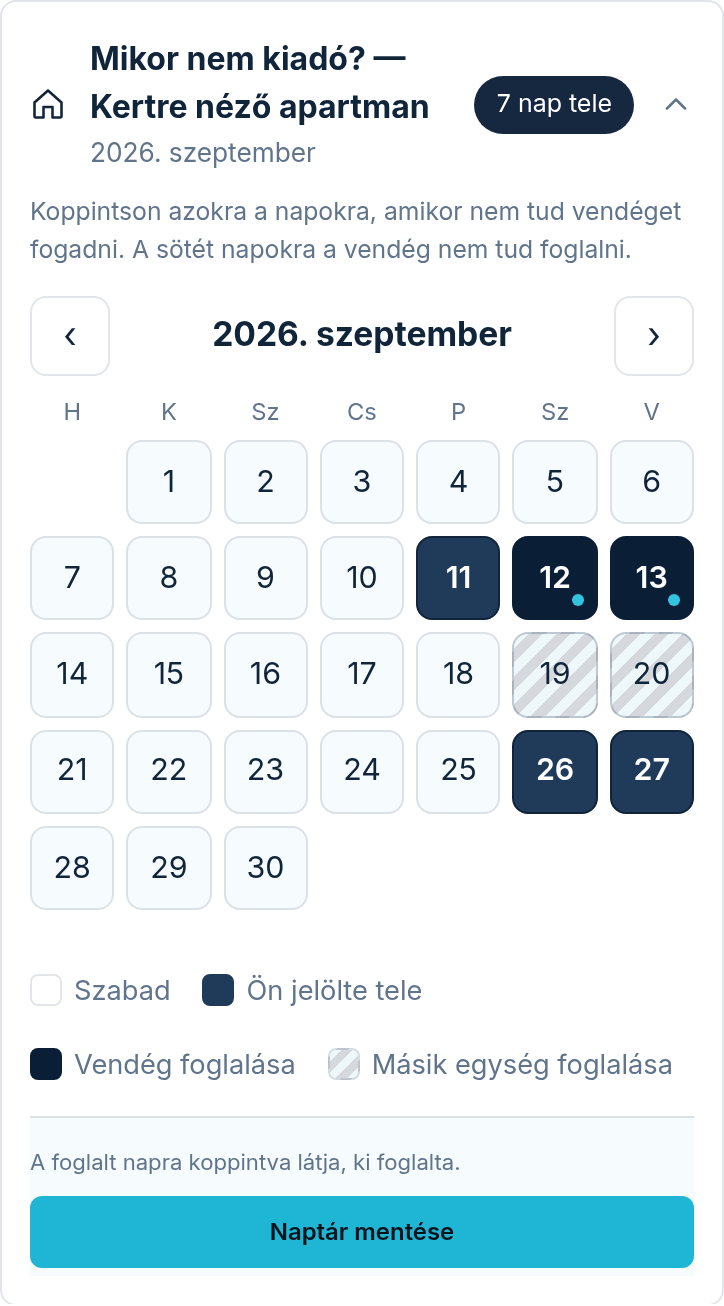
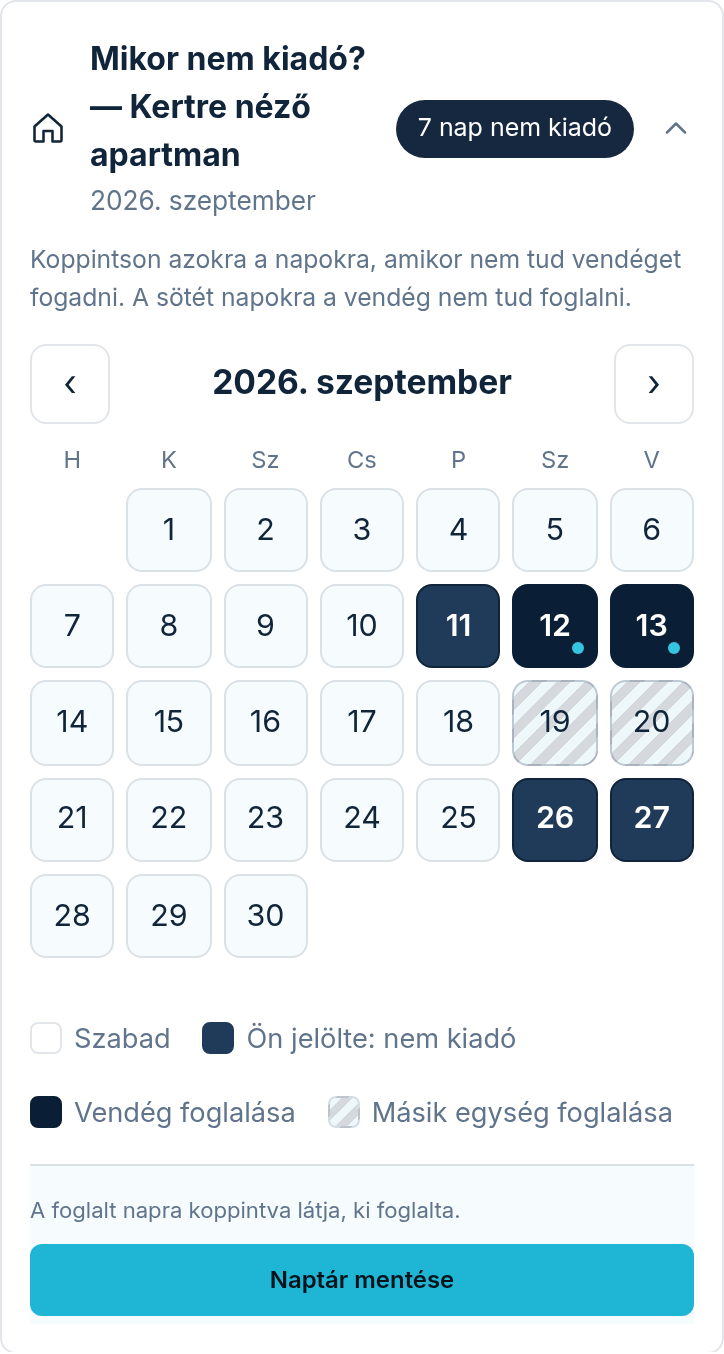
fix(foglalás): a naptár jelvénye, jelmagyarázata és nap-kártyája a cím szavára — „minden nap kiadó” / „N nap nem kiadó” / „Ön jelölte: nem kiadó” (tulaj: B, 2026-09-25)
A cím már „Mikor nem kiadó?” volt, a „tele” szó három helyen maradt — a tulaj fejben
fordított. Három szókészlet képpel (A „zárt” / B „nem kiadó” / C „tele”) → B: a jelvény,
a jelmagyarázat és a másik egység által tartott nap kártyája ugyanazt a szót viseli, mint
a cím. Fogyasztók átvezetve: KB-szöveg + kép, booking-screen-check, a booking-screen
kontraktus README-je (kötő idézet + dátumozott megjegyzés), katalógus.

Claude-Session: https://claude.ai/code/session_01VvQ8HjmVgBx8DC5YuzHngU

diff --git a/src/server/moduleConfigViews.ts b/src/server/moduleConfigViews.ts
@@ -948,7 +948,7 @@ function dayDetailCard(c: MonthView["cells"][number], moduleId: string, unitId: 
       `<strong>${esc(dayLabel(c.day, lang))}</strong>` +
       (holder ? `<span class="daycard__tag">${esc(holder)}</span>` : "");
     body =
-      `<p class="daycard__note">${T(lang, "Ezt a napot {art} {unit} naptárában jelölte tele, ezért itt sem adható ki.", { art: huArticleLower(holder), unit: esc(holder) })}</p>` +
+      `<p class="daycard__note">${T(lang, "Ezt a napot {art} {unit} naptárában jelölte nem kiadónak, ezért itt sem adható ki.", { art: huArticleLower(holder), unit: esc(holder) })}</p>` +
       (d.otherUnitId
         ? `<div class="daycard__acts"><a class="citui-btn citui-btn--ghost" href="/admin?tab=modulok&m=${encodeURIComponent(moduleId)}&e=${encodeURIComponent(d.otherUnitId)}&ho=${c.day.slice(0, 7)}">${T(lang, "Átváltok a naptárára")}</a></div>`
         : "");
@@ -1032,7 +1032,7 @@ function calendarLegend(mv: MonthView, lang = "hu"): string {
     `<span><i></i>${T(lang, "Szabad")}</span>` +
     // Two different things used to share one legend entry — and one of them is
     // re-tappable while the other is not (KB guard, 2026-09-08).
-    `<span><i class="is-manual"></i>${T(lang, "Ön jelölte tele")}</span>` +
+    `<span><i class="is-manual"></i>${T(lang, "Ön jelölte: nem kiadó")}</span>` +
     `<span><i class="is-full"></i>${T(lang, "Vendég foglalása")}</span>` +
     // ADR-0114: a night another unit holds looks different, because it behaves
     // differently — it cannot be released here.
@@ -2196,8 +2196,8 @@ function bookingEditor(
     `<span>${esc(mv.label)}</span></span>` +
     `<span class="cal-sum__badge${mv.blockedCount === 0 ? " is-free" : ""}">${
       mv.blockedCount === 0
-        ? T(lang, "nincs tele nap")
-        : T(lang, "{n} nap tele", { n: mv.blockedCount })
+        ? T(lang, "minden nap kiadó")
+        : T(lang, "{n} nap nem kiadó", { n: mv.blockedCount })
     }</span>` +
     `<span class="cal-sum__chev">${ic("chevron-down", 18)}</span>` +
     `</summary>` +

diff --git a/assets/design-refs/tenant-admin/booking-screen/README.md b/assets/design-refs/tenant-admin/booking-screen/README.md
@@ -35,8 +35,9 @@ soha nem találkozik a fogalommal (ADR-0044/b).
 
 - **Összecsukható.** A fejléc-sorban: „Mikor nem kiadó? — <egység>" (2026-09-25-ig „Mikor van
   tele?", a tulaj írta át), alatta a hónap, jobbra
-  egy jelvény, ami **csukott állapotban is megmondja a lényeget**: `3 nap tele` /
-  `nincs tele nap`. A chevron forog.
+  egy jelvény, ami **csukott állapotban is megmondja a lényeget**: `3 nap nem kiadó` /
+  `minden nap kiadó` (2026-09-25-ig a „tele” szóval; a tulaj a cím szavára
+  írta át — a jelmagyarázat „Ön jelölte: nem kiadó”, a nap-kártya „jelölte nem kiadónak”). A chevron forog.
 - **Egység-váltáskor a naptár KINYÍLIK** — a tulaj azért váltott, hogy lássa.
 - A rács Monday-first, a múlt napjai halványak és nem kattinthatók.
 - Asztali gépen a rács **nem nő tovább** (max ~500px); a jelmagyarázat és a mentés a
@@ -59,7 +60,7 @@ A kártya tartalma nap-fajtánként:
 |---|---|
 | **Saját foglalás** | Vendég neve · státusz-címke · időszak (hány éjszaka) · létszám · ár · e-mail és telefon **kattintható** linkként · honnan jött · a vendég üzenete, ha van. Műveletek: „Foglalás megnyitása" (a Foglalások fülre) és „Írok a vendégnek". |
 | **Másik egység foglalása** (csíkos) | KI tartja (vendég), melyik egységen, milyen időszakban, és a mondat, hogy ezért nem foglalható itt. Műveletek: „Foglalás megnyitása" + **„Átváltok a naptárára"**. |
-| **Kézi blokk** | ⚠ **ELTÉRÉS a vázlattól, megvalósításkor (2026-09-08).** A vázlaton a kézi napnak is kártyája volt („Ön jelölte tele" + „Mégis kiadom ezt a napot"). A szállított képernyőn NINCS: a kézi nap koppintásra AZONNAL felszabadul — ez a képernyő fő művelete („koppintson a napokra, amikor tele van"), és egy közbeiktatott kártya minden egyes napnál két koppintásra lassítaná. Cserébe a kézi nap MÁS SZÍNŰ, mint a vendég-foglalás, és a jelmagyarázat külön nevezi meg: **„Ön jelölte tele"** vs. **„Vendég foglalása"** — a vázlaton ez a kettő pixel-azonos volt, ami a tudásbázis-őr szerint épp a legkockázatosabb félreértés. |
+| **Kézi blokk** | ⚠ **ELTÉRÉS a vázlattól, megvalósításkor (2026-09-08).** A vázlaton a kézi napnak is kártyája volt (a kézi jelölés felirata + egy visszavonó gomb; a jelmagyarázat mai szava: „Ön jelölte: nem kiadó”). A szállított képernyőn NINCS: a kézi nap koppintásra AZONNAL felszabadul — ez a képernyő fő művelete („koppintson a napokra, amikor tele van"), és egy közbeiktatott kártya minden egyes napnál két koppintásra lassítaná. Cserébe a kézi nap MÁS SZÍNŰ, mint a vendég-foglalás, és a jelmagyarázat külön nevezi meg: **„Ön jelölte: nem kiadó" (2026-09-25-ig a „tele” szóval)** vs. **„Vendég foglalása"** — a vázlaton ez a kettő pixel-azonos volt, ami a tudásbázis-őr szerint épp a legkockázatosabb félreértés. |
 | **Portál-nap** | A portál neve, az időszak, és hogy **itt nem módosítható** — ott kell kezelni. |
 
 A kártya bezárható (×), a sötét háttérre koppintva is. A nyitott naphoz a naptárban

diff --git a/kb/entries/admin-modules-booking/entry.hu.md b/kb/entries/admin-modules-booking/entry.hu.md
@@ -60,7 +60,7 @@ A **„Mikor nem kiadó?”** naptárban koppintson azokra a napokra, amikor nem
 A **„Naptár mentése”** gombbal rögzíti a változást. A ‹ és › nyilakkal lapozhat a hónapok között.
 
 A naptár **összecsukható**: a fejléc-sorára koppintva becsukódik, és becsukva is kiírja, hány nap
-tele van abban a hónapban (például „3 nap tele”; ha egy sincs: **„nincs tele nap”**). Újra koppintva
+nem kiadó abban a hónapban (például „3 nap nem kiadó”; ha egy sincs: **„minden nap kiadó”**). Újra koppintva
 kinyílik.
 
 ## A nap-fajták — és melyik mit csinál koppintásra
@@ -72,7 +72,7 @@ ha tényleg van ilyen nap — ezért gyakran csak az első hármat látja:
 | Jelmagyarázat | Mit jelent | Mi történik, ha rákoppint |
 |---|---|---|
 | **„Szabad”** | Foglalható éjszaka | Tele lesz (sötétkék). Mentés után a vendég nem tudja lefoglalni. |
-| **„Ön jelölte tele”** | Az Ön saját blokkja (közepes kék) | **Újra szabaddá válik** — így vonja vissza, ha mégis ki tudja adni. |
+| **„Ön jelölte: nem kiadó”** | Az Ön saját blokkja (közepes kék) | **Újra szabaddá válik** — így vonja vissza, ha mégis ki tudja adni. |
 | **„Vendég foglalása”** | Egy elfogadott foglalás (legsötétebb, apró világoskék ponttal) | **Felugrik a foglalás részlete** — lásd a következő szakaszt. Felszabadítani itt nem lehet. |
 | **„Másik egység foglalása”** | Csíkos: a szállás egy másik egysége tartja. **Csak akkor jelenik meg, ha van ilyen nap.** | Felugrik, hogy **melyik egység** és **ki** tartja. Itt nem oldható fel. |
 
@@ -86,8 +86,8 @@ A foglalt napra koppintva **a képernyő közepén felugrik a nap részlete**:
   **„Foglalás megnyitása”** (a Foglalások fülre visz) és **„Írok a vendégnek”**.
 - **Csíkos napnál** az, hogy **melyik egység** tartja. Ha ott vendég-foglalás van, a vendég neve és
   az időszaka is látszik, és a **„Foglalás megnyitása”** gombbal megnyithatja; ha viszont csak
-  kézzel jelölte tele azt az egységet, a kártya ezt írja: „Ezt a napot a … naptárában jelölte
-  tele”. Mindkét esetben ott az **„Átváltok a naptárára”** gomb.
+  kézzel jelölte nem kiadónak azt az egységet, a kártya ezt írja: „Ezt a napot a … naptárában
+  jelölte nem kiadónak”. Mindkét esetben ott az **„Átváltok a naptárára”** gomb.
 
 A kártyát az **×** jellel vagy a mögötte lévő sötét háttérre koppintva zárja be.
 

diff --git a/MEMORY.md b/MEMORY.md
@@ -39,7 +39,7 @@ a szobánál is kapcsolható („a ház egészénél is” címke), **az egész 
 szumma** az Árak lapon (vendégnek soha). Befagyasztva: `assets/design-refs/tenant-admin/whole-property-choice/`.
 Őr: ÚJ `whole-property-choice-check` (①–⑦, pre-commit), `amenity-picker-check` és `whole-property-check` ⑥
 átírva. Súgó (rooms/booking/pricing) + képek frissítve. **+ két apró tétel:** sidebar-görgető tokenszínű,
-naptár címe „Mikor nem kiadó?”. Nyitva: a naptár-jelvény („nincs tele nap”) szava; élesítés külön engedéllyel.
+naptár címe „Mikor nem kiadó?”, és a jelvény/jelmagyarázat/nap-kártya is a cím szavára („minden nap kiadó” / „N nap nem kiadó” / „Ön jelölte: nem kiadó”, tulaj: B). Nyitva: élesítés külön engedéllyel.
 
 ## Előző szál (2026-09-25 — modul-almenü az oldalsávban)
 
